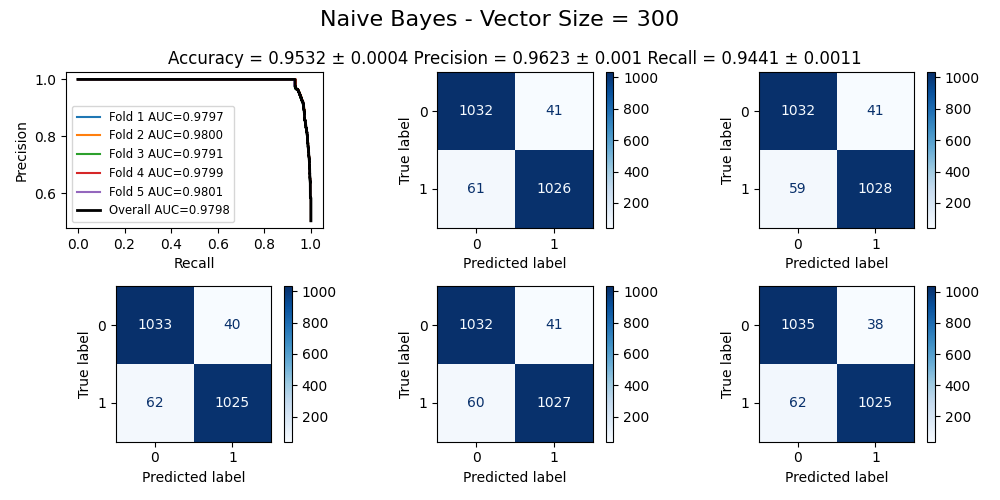
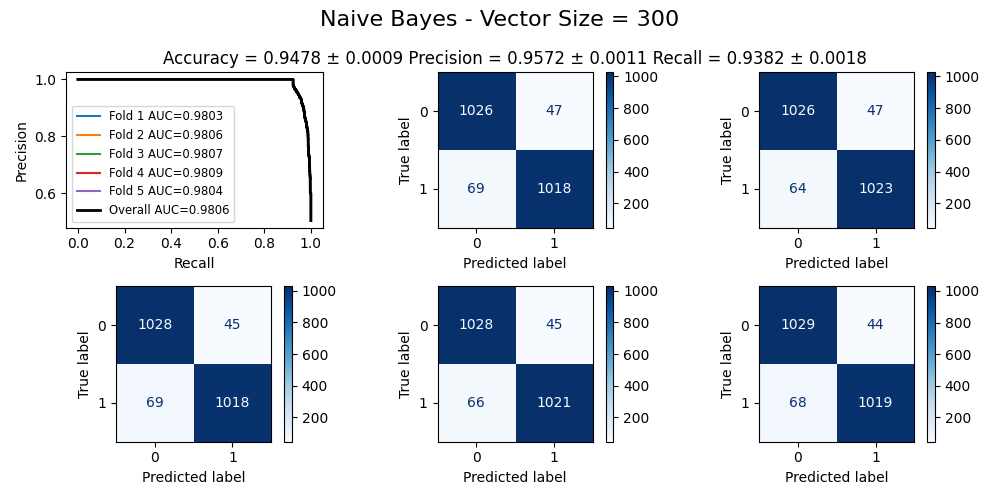
25-11-2021

diff --git a/NaturalLanguageProcessing/PreProcessing.py b/NaturalLanguageProcessing/PreProcessing.py
@@ -1,6 +1,6 @@
 import json
 
-class PreProcessing:    
+class PreProcessing:
     def toLowerCase(documents):
         returnValue = []
         for document in documents:
@@ -32,15 +32,19 @@ class PreProcessing:
         return returnValue
 
     def removeStopWords(documents, portugues = True):
-        returnValue = []
         if portugues:
-            f = open('StopWordsPortugues.json')
-            data = json.load(f)
-            words = data['words']
-            for document in documents:
-                text = ""
-                for word in document.split():
-                    if word not in words:
-                        text += word + " "
-                returnValue.append(text)
-            return returnValue
+            return PreProcessing.__remove("StopWordsPortugues.json", documents)
+        return PreProcessing.__remove("StopWordsIngles.json", documents)
+        
+    def __remove(jsonFile, documents):
+        returnValue = []
+        f = open(jsonFile)
+        data = json.load(f)
+        words = data['words']
+        for document in documents:
+            text = ""
+            for word in document.split():
+                if word not in words:
+                    text += word + " "
+            returnValue.append(text)
+        return returnValue

diff --git a/NaturalLanguageProcessing/NLP.py b/NaturalLanguageProcessing/NLP.py
@@ -8,8 +8,7 @@ from DocumentRepresentationWord2Vec import DocumentRepresentationWord2Vec
 from Classifiers import Classifiers
 
 datasetPortugues = True
-removeStopWords = True
-portugues = True
+removeStopWords = False
 
 tic = time.time()
 CORPUS_PATH = "../Corpus/Ingles/"
@@ -38,7 +37,7 @@ newlistNews = PreProcessing.removeSpecialCharacters(newlistNews)
 newlistNews = PreProcessing.removeNumerals(newlistNews)
 newlistNews = PreProcessing.toLowerCase(newlistNews)
 if removeStopWords:
-    newlistNews = PreProcessing.removeStopWords(newlistNews, portugues)
+    newlistNews = PreProcessing.removeStopWords(newlistNews, datasetPortugues)
 
 toc = time.time() - tic
 print("Etapa 02 - Pré-processamento - " + str(round(toc,2)) + " segundos")
@@ -64,6 +63,6 @@ print("Etapa 03 - Processamento de Linguagem Natural - " + str(round(toc,2)) + "
 
 tic = time.time()
 classificador = Classifiers(listVectors, listLabels)
-classificador.neuralNetwork(input_size=300)
+classificador.naiveBayes(vectorSize=300)
 toc = time.time() - tic
 print("Etapa 04 - Treinamento da Rede - " + str(round(toc,2)) + " segundos")

diff --git a/NaturalLanguageProcessing/Classifiers.py b/NaturalLanguageProcessing/Classifiers.py
@@ -110,7 +110,7 @@ class Classifiers:
             xTrain, xValidation = self.xTrain[train_index], self.xTrain[validation_index]
             yTrain, yValidation = self.yTrain[train_index], self.yTrain[validation_index]
             classifier.compile(optimizer="adam", loss="binary_crossentropy", metrics=["accuracy"])
-            classifier.fit(xTrain, yTrain, epochs=10, validation_data=(xValidation, yValidation), callbacks=[callback])
+            classifier.fit(xTrain, yTrain, epochs=10, validation_data=(xValidation, yValidation), callbacks=[callback], verbose=0)
             yPred = classifier.predict(self.xTest)
             pred_proba = yPred
             yPred = np.round(yPred).astype(int)
